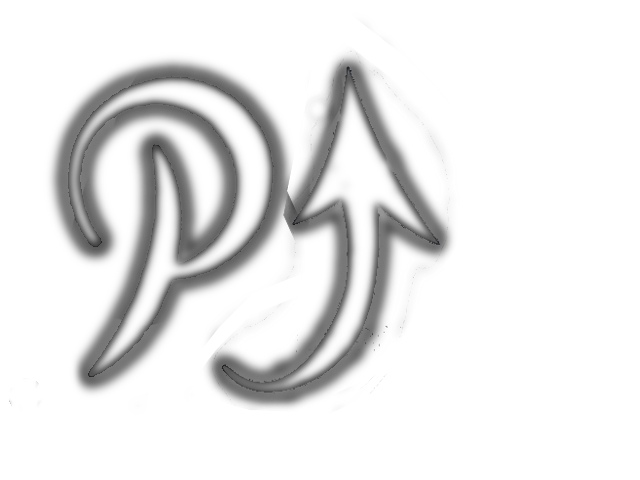
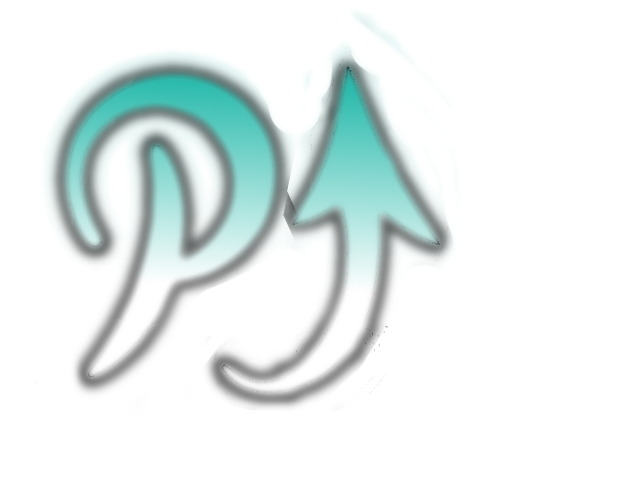
doing some stuff

Changed region(s): [[0.0938, 0.125, 0.6875, 0.8438]]

diff --git a/app/controllers/PinNewCtrl.js b/app/controllers/PinNewCtrl.js
@@ -25,7 +25,7 @@ app.controller("PinNewCtrl", function($scope, $window, PinStorage, BoardStorage)
     title: "",
     description: "",
     image: "",
-    boardid: $scope.selectedBoard,
+    boardid: "",
     uid: user
   };
 
@@ -43,13 +43,16 @@ app.controller("PinNewCtrl", function($scope, $window, PinStorage, BoardStorage)
   });
 
   //has to change twice?
-  $('#boardSelector').change( function () {
-    $scope.newPin.boardid = $scope.selectedBoard;
-  });
+  // $('#boardSelector').change( function () {
+  //   // $scope.newPin.boardid = $scope.selectedBoard;
+  //   console.log($scope.newPin);
+  // });
 
 
   //take the $scope.newPin object and pass it as an argument to the postNewPin function in PinFactory.js
   $scope.addNewPin = function() {
+    $scope.newPin.boardid = $scope.selectedBoard;
+    console.log($scope.newPin);
     PinStorage.postNewPin ($scope.newPin)
     .then(function() {
       $window.location.href = "#/boards/home"; // rerouting back to list view after promise is returned

diff --git a/css/main.css b/css/main.css
@@ -8,7 +8,8 @@
   background-color: #fff !important; }
 
 #dropdownIcon {
-  font-size: 4rem; }
+  font-size: 4rem;
+  color: #26a69a; }
 
 .logoImg {
   height: 60px;
@@ -90,5 +91,8 @@ input:not([type]).valid, input:not([type]):focus.valid, input[type=text].valid, 
   border-bottom: 1px solid #26a69a;
   box-shadow: 0 1px 0 0 #26a69a;
   background-color: #fff; }
+
+input:-webkit-autofill {
+  -webkit-box-shadow: 0 0 0 1000px white inset !important; }
 
 /*# sourceMappingURL=main.css.map */

diff --git a/sass/main.scss b/sass/main.scss
@@ -13,6 +13,7 @@
 
 #dropdownIcon {
   font-size: 4rem;
+  color: #26a69a;
 }
 
 .logoImg {
@@ -101,6 +102,7 @@
 }
 
 //-----new-pin.html styles-----
+
 .newPinSelectWrapper {
   margin: 20px auto;
 }
@@ -130,6 +132,11 @@ input:not([type]).valid, input:not([type]):focus.valid, input[type=text].valid, 
   box-shadow: 0 1px 0 0 #26a69a;
   background-color: #fff;
 }
+
+input:-webkit-autofill {
+    -webkit-box-shadow: 0 0 0 1000px white inset !important;
+}
+
 
 
 

diff --git a/app/controllers/BoardListCtrl.js b/app/controllers/BoardListCtrl.js
@@ -27,6 +27,7 @@ app.controller("BoardListCtrl", function($scope, $window, $routeParams, BoardSto
     .then( () => {
       //reload page
       BoardStorage.getUserBoards(user)
+
       .then((boardListArray) => {
         $scope.boards = boardListArray;
       });
